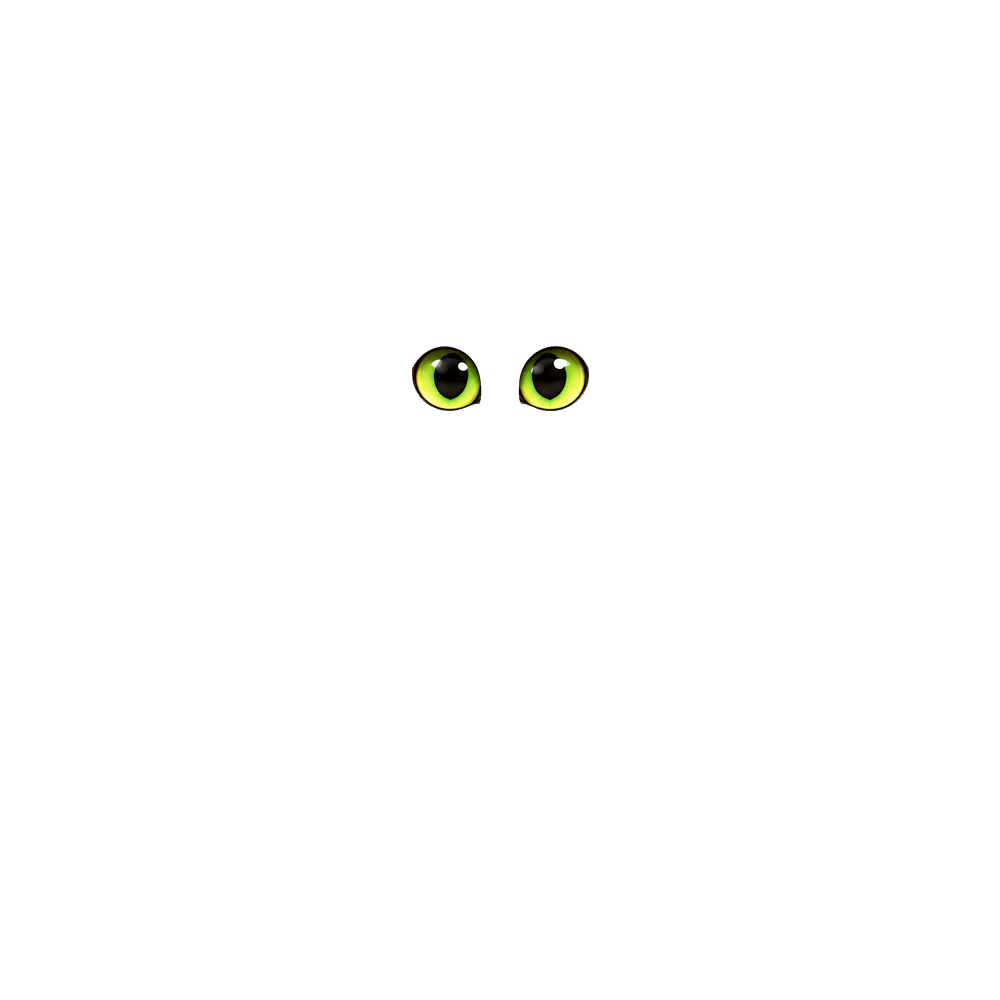
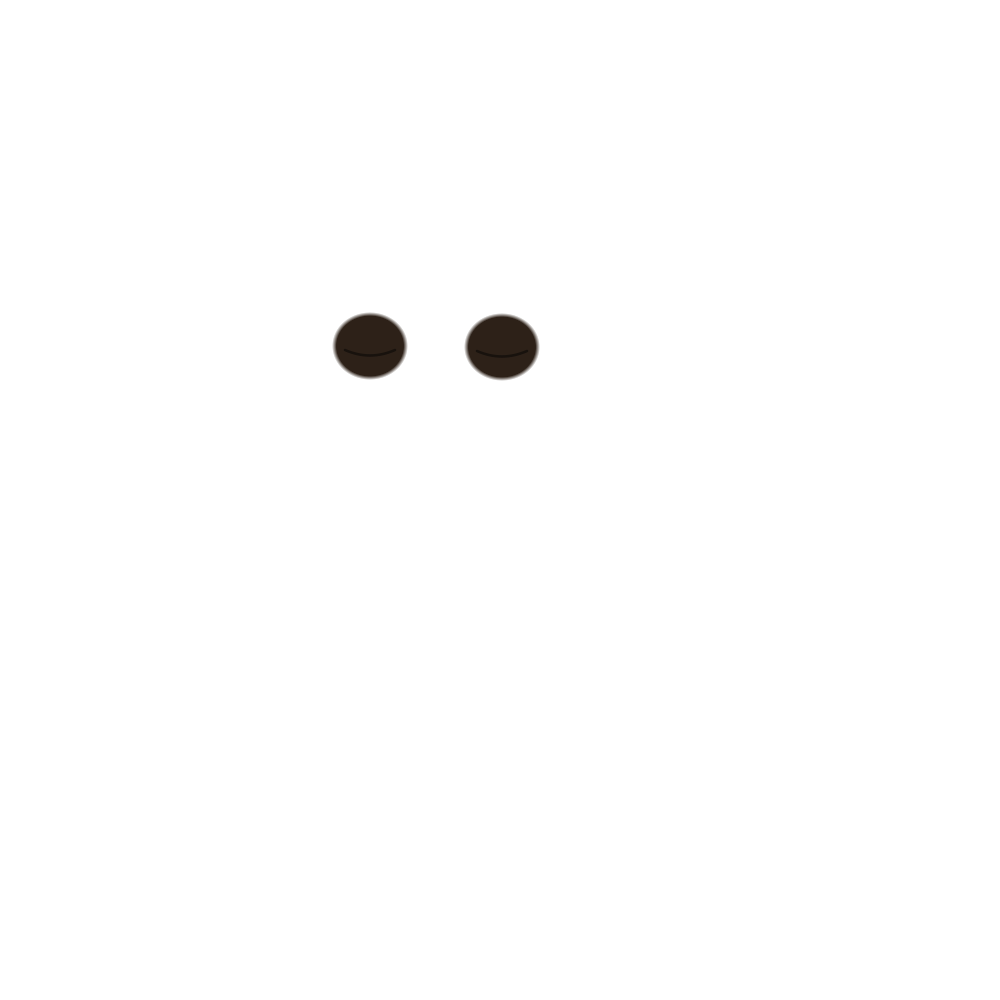
Eva cat: blink and talk as small overlays on the whole-cat sprite
make-cat-overlays.js draws closed eyelids (faded in for a blink, half closed while angry)
and an open mouth (shown while a voice line plays) on the 1000x1000 canvas.

Changed region(s): [[0.31, 0.31, 0.589, 0.434]]

diff --git a/tools/art-import/make-cat-overlays.js b/tools/art-import/make-cat-overlays.js
@@ -1,0 +1,35 @@
+// Draws the two small overlays that animate the whole-cat sprite (1000x1000 canvas, same as cat_whole.png):
+// cat_eyes.png = closed eyelids (faded in for a blink), cat_mouth.png = open mouth (shown while talking).
+// Positions were measured on cat_whole.png: eye centres (370,346) and (502,347), nose bottom (436,413).
+const sharp = require('./node_modules/sharp');
+const path = require('path');
+const DIR = path.join(__dirname, '../../EvasLearningWorld/Assets/Eva/Resources/Art/cat');
+
+(async () => {
+  const { data, info } = await sharp(path.join(DIR, 'cat_whole.png')).raw().toBuffer({ resolveWithObject: true });
+  const px = (x, y) => { const i = (y * info.width + x) * info.channels; return [data[i], data[i + 1], data[i + 2]]; };
+  // fur colour around the eyes: average of points just above and beside them
+  const pts = [[370, 305], [335, 346], [502, 306], [538, 347], [436, 330], [420, 300], [455, 300]];
+  const avg = [0, 1, 2].map(c => Math.round(pts.reduce((s, p) => s + px(p[0], p[1])[c], 0) / pts.length));
+  const fur = `rgb(${avg.join(',')})`;
+  const dark = `rgb(${avg.map(v => Math.round(v * 0.45)).join(',')})`;
+  const lid = (cx, cy, id) => `
+    <radialGradient id="g${id}"><stop offset="0.88" stop-color="${fur}" stop-opacity="1"/><stop offset="1" stop-color="${fur}" stop-opacity="0"/></radialGradient>
+    <ellipse cx="${cx}" cy="${cy}" rx="38" ry="34" fill="url(#g${id})"/>
+    <path d="M ${cx - 25} ${cy + 4} Q ${cx} ${cy + 15} ${cx + 25} ${cy + 4}" fill="none" stroke="${dark}" stroke-width="2.6" stroke-linecap="round" opacity="0.85"/>`;
+  const eyes = `<svg xmlns="http://www.w3.org/2000/svg" width="1000" height="1000"><defs><filter id="soft"><feGaussianBlur stdDeviation="1.4"/></filter></defs>${lid(370, 346, 1)}${lid(502, 347, 2)}</svg>`;
+  const mouth = `<svg xmlns="http://www.w3.org/2000/svg" width="1000" height="1000"><defs><filter id="soft"><feGaussianBlur stdDeviation="0.7"/></filter></defs>
+    <g filter="url(#soft)">
+      <path d="M 423 429 Q 436 426 449 429 Q 451 447 436 453 Q 421 447 423 429 Z" fill="#1d0a0c" stroke="${dark}" stroke-width="1.8"/>
+      <ellipse cx="436" cy="445" rx="8" ry="5" fill="#b8505f"/>
+    </g></svg>`;
+  await sharp(Buffer.from(eyes)).png().toFile(path.join(DIR, 'cat_eyes.png'));
+  await sharp(Buffer.from(mouth)).png().toFile(path.join(DIR, 'cat_mouth.png'));
+  console.log('fur', fur);
+  if (process.argv[2]) {
+    const comp = [{ input: path.join(DIR, 'cat_eyes.png') }, { input: path.join(DIR, 'cat_mouth.png') }];
+    const full = await sharp(path.join(DIR, 'cat_whole.png')).composite(comp).png().toBuffer();
+    await sharp(full).extract({ left: 316, top: 296, width: 240, height: 200 })
+      .resize(960, 800, { kernel: 'lanczos3' }).flatten({ background: '#7ab83c' }).png().toFile(process.argv[2]);
+  }
+})();

diff --git a/EvasLearningWorld/Assets/Eva/App/Characters/CatMotion.cs b/EvasLearningWorld/Assets/Eva/App/Characters/CatMotion.cs
@@ -9,8 +9,8 @@ namespace EvasLearningWorld.App
     // so screens can keep positioning and scaling Root freely.
     public sealed class CatMotion : MonoBehaviour
     {
-        private RectTransform _hop, _tail, _body, _legL, _legR, _head, _earL, _earR, _eyes;
-        private Image _mouth;
+        private RectTransform _hop, _tail, _body, _legL, _legR, _head, _earL, _earR;
+        private Image _mouth, _lids;
 
         private bool _talking;
         private float _angry;
@@ -24,8 +24,9 @@ namespace EvasLearningWorld.App
             RectTransform head, RectTransform earL, RectTransform earR, RectTransform eyes, Image mouth)
         {
             _hop = hop; _tail = tail; _body = body; _legL = legL; _legR = legR;
-            _head = head; _earL = earL; _earR = earR; _eyes = eyes; _mouth = mouth;
+            _head = head; _earL = earL; _earR = earR; _lids = eyes.GetComponent<Image>(); _mouth = mouth;
             _mouth.enabled = false;
+            _lids.enabled = false;
         }
 
         public bool IsBouncing => _bounceT >= 0f;
@@ -111,7 +112,10 @@ namespace EvasLearningWorld.App
                 blink = 1f - Mathf.Sin(Mathf.Clamp01(_blinkT / 0.16f) * Mathf.PI);
                 if (_blinkT > 0.16f) { _blinkT = -1f; _nextBlink = t + Random.Range(3f, 5f); }
             }
-            _eyes.localScale = new Vector3(1f, Mathf.Max(0.05f, blink) * (lash > 0f ? 0.75f : 1f), 1f);
+            // Eyelid overlay: fully faded in at the middle of a blink; held half closed while angry.
+            var lidAlpha = Mathf.Max(1f - blink, lash > 0f ? 0.55f : 0f);
+            _lids.enabled = lidAlpha > 0.01f;
+            _lids.color = new Color(1f, 1f, 1f, lidAlpha);
 
             var headOffset = headY - 10f * lash;
             // Mouth moves whenever a voice line is playing, whether or not a screen set the talking flag.

diff --git a/EvasLearningWorld/Assets/Eva/App/Characters/RigFactory.cs b/EvasLearningWorld/Assets/Eva/App/Characters/RigFactory.cs
@@ -66,7 +66,8 @@ namespace EvasLearningWorld.App
         }
 
         // Eva is one whole-cat cutout (cat/cat_whole, 1000x1000 canvas, from the approved reference) driven by CatMotion, not the Animator.
-        // The part layers below are empty containers kept so CatMotion keeps working; only Shadow and Body draw.
+        // The part layers below are empty containers kept so CatMotion keeps working; Shadow and Body draw, plus two small
+        // overlays on the face: Eyes = closed eyelids (faded in to blink) and Mouth = open mouth (shown while talking).
         // Layout: Root > Hop > Shadow, Tail, Body > (LegL, LegR, Chest, Head > (EarL, EarR, Eyes, Mouth)). Pivots are
         // the art-space points each layer rotates/scales around; the ground line sits at art y=940.
         public const float CatCanvas = 740f;      // 1000 art units shown at 740 px -> cat about CatDisplayHeight tall
@@ -96,8 +97,8 @@ namespace EvasLearningWorld.App
             var earR = CatLayer(null, "EarR", head, 610f, 320f);
             earL.SetAsFirstSibling();
             earR.SetAsFirstSibling();
-            var eyes = CatLayer(null, "Eyes", head, 500f, 380f);
-            var mouth = CatLayer(null, "Mouth", head, 500f, 478f);
+            var eyes = CatLayer("cat_eyes", "Eyes", head, 500f, 380f);
+            var mouth = CatLayer("cat_mouth", "Mouth", head, 500f, 478f);
 
             var motion = rootObject.GetComponent<CatMotion>();
             motion.Init(hop, tail, body, legL, legR, head, earL, earR, eyes, mouth.GetComponent<Image>());

diff --git a/EvasLearningWorld/Assets/Eva/Tests/ArtTests.cs b/EvasLearningWorld/Assets/Eva/Tests/ArtTests.cs
@@ -22,7 +22,7 @@ namespace EvasLearningWorld.Tests
             "icons/gear",
             "characters/char_torso", "characters/char_arm", "characters/char_leg",
             "characters/char_head_0", "characters/char_head_1", "characters/char_head_2", "characters/char_head_3",
-            "cat/cat_shadow", "cat/cat_whole"
+            "cat/cat_shadow", "cat/cat_whole", "cat/cat_eyes", "cat/cat_mouth"
         };
 
         [Test]
